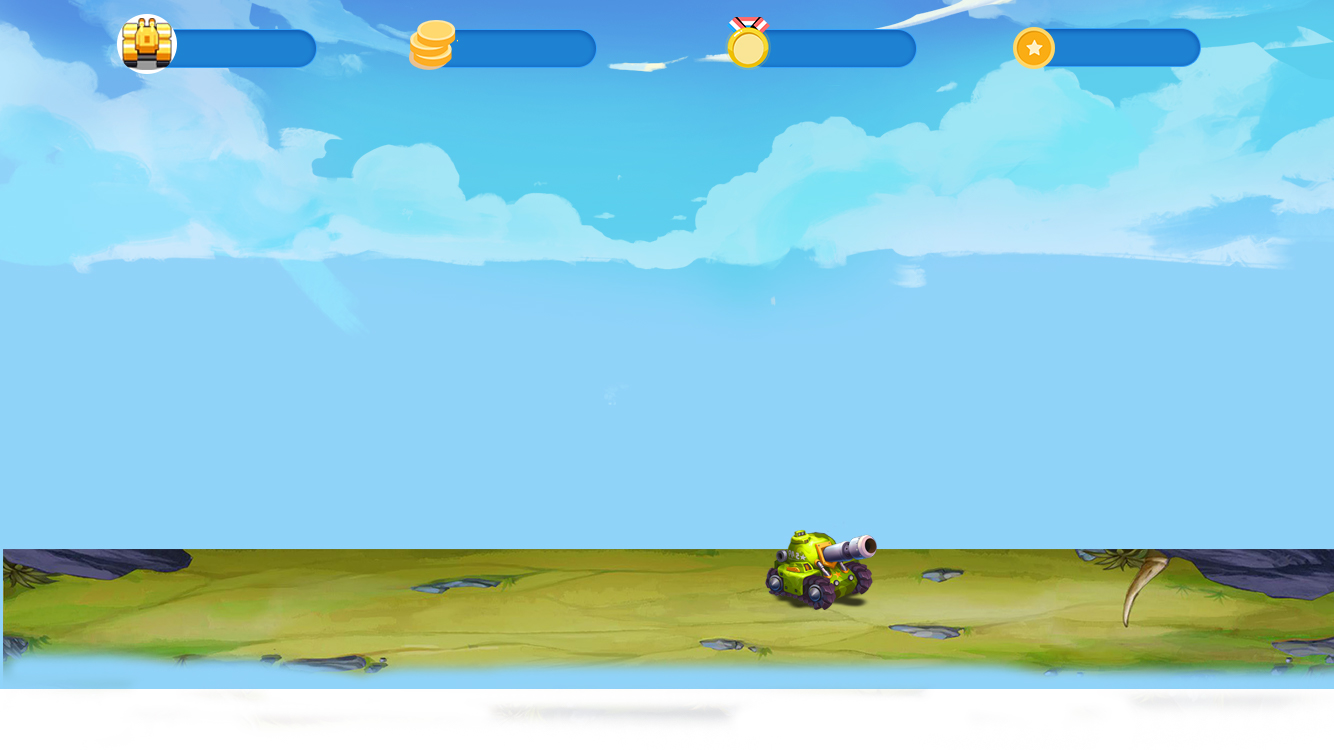
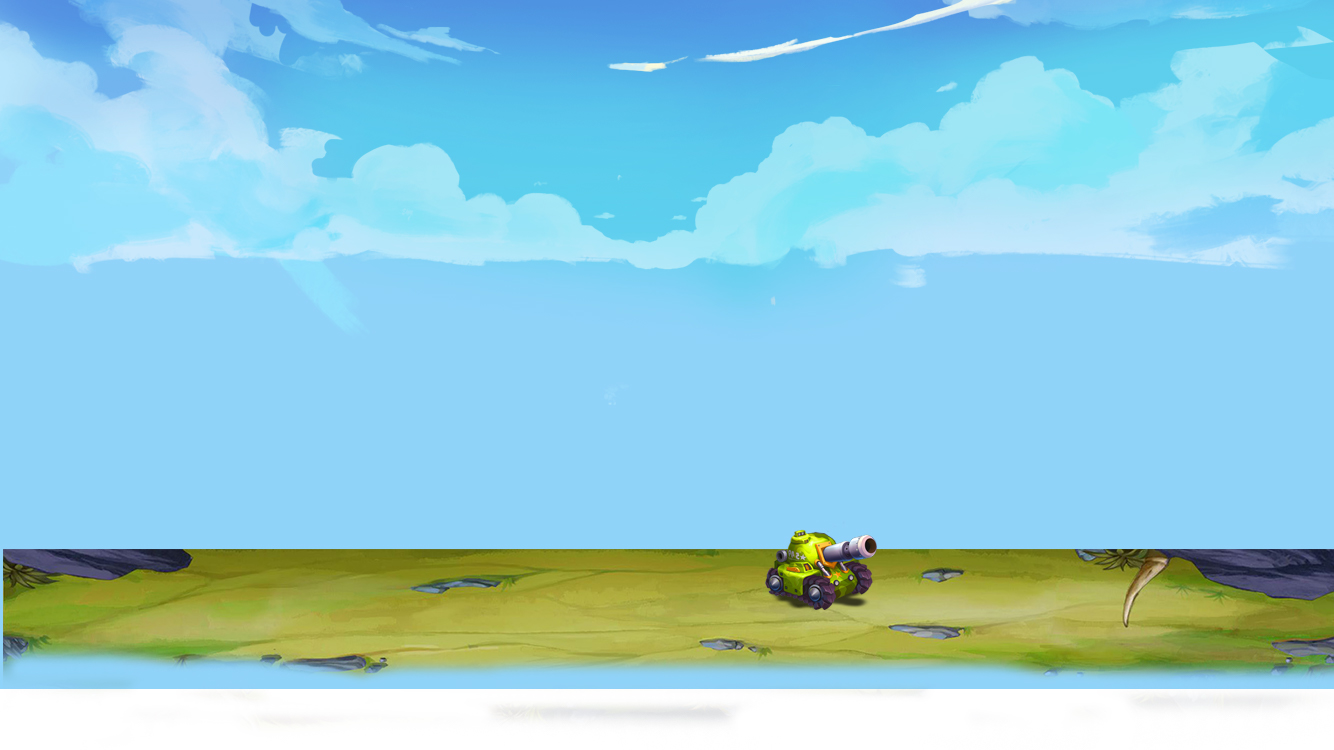
优化主界面显示（后端增加星星数查询）

diff --git a/websocket/src/main/resources/static/js/share/stage/menu.js b/websocket/src/main/resources/static/js/share/stage/menu.js
@@ -20,29 +20,100 @@ export default class Menu extends Stage {
         this.createBullet();
         this.createDoor();
         this.createFullScreenItem("menu_wall");
-
-        //信息
-        this.createItem({
-            draw: function (ctx) {
-                ctx.textAlign = 'center';
-                ctx.textBaseline = 'middle';
-                ctx.fillStyle = '#FFF';
-                const pos = {
-                    x: 344,
-                    y: 72
-                };
-                //姓名
-                ctx.displayText(Resource.getUser().userId, pos.x, pos.y, 26, true);
-                //金币
-                ctx.displayText(Resource.getUser().coin, pos.x + 400, pos.y, 26, true);
-                //排名
-                ctx.displayText(Resource.getUser().rank, pos.x + 844, pos.y, 26, true);
-                //积分
-                ctx.displayText(Resource.getUser().score, pos.x + 1266, pos.y, 26, true);
-            }
-        });
+        this.createTopInfo();
 
         this.initButton();
+    }
+
+    createTopInfo() {
+        const iconInfo = [
+            {
+                id: "menu_head",
+                scale: 1,
+                info: function () {
+                    return Resource.getUser().userId;
+                }
+            },
+            {
+                id: "star",
+                scale: 0.92,
+                offsetY: -5,
+                info: function () {
+                    return Resource.getUser().star;
+                }
+            },
+            {
+                id: "gold",
+                scale: 1.15,
+                info: function () {
+                    return Resource.getUser().coin;
+                }
+            }
+        ];
+        const info = {
+            rectW: 280,
+            rectH: 60,
+            interval: 60,
+            iconSize: 80
+        };
+
+        //generate start pos
+        info.startY = 15;
+        info.startX = Resource.formatWidth() / 2;
+        if (iconInfo.length % 2 === 0) {
+            info.startX += info.interval / 2;
+        } else {
+            info.startX -= info.rectW / 2;
+        }
+        info.startX -= (Math.floor(iconInfo.length / 2) * (info.rectW + info.interval));
+
+        this.createItem({
+            draw: function (ctx) {
+                ctx.displayTopLeft("top_mask", 0, 0, Resource.formatWidth());
+                ctx.displayCenter("menu_setting", 1827, 60, 100);
+
+                ctx.textAlign = 'center';
+                ctx.textBaseline = 'middle';
+                for (let i = 0; i < iconInfo.length; ++i) {
+                    const x = info.startX + (i * (info.rectW + info.interval));
+
+                    //rect
+                    ctx.fillStyle = '#000';
+                    ctx.globalAlpha = 0.3;
+                    ctx.displayFillRoundRect(
+                        x, info.startY,
+                        info.rectW, info.rectH,
+                        info.rectH / 2);
+                    ctx.globalAlpha = 1;
+
+                    //icon
+                    const icon = iconInfo[i];
+                    ctx.displayCenter(
+                        icon.id,
+                        x,
+                        info.startY + info.iconSize * .4 + (icon.offsetY ? icon.offsetY : 0),
+                        info.iconSize * icon.scale);
+
+                    //text
+                    ctx.fillStyle = '#FFF';
+                    ctx.displayGameText(
+                        icon.info(),
+                        x + info.rectW * .5,
+                        info.startY + info.rectH / 2,
+                        30);
+                }
+            },
+            controlUnit: new ControlUnit({
+                center: {
+                    x: 1827,
+                    y: 60
+                },
+                size: {
+                    w: 100,
+                    h: 100
+                }
+            })
+        });
     }
 
     initButton() {

diff --git a/websocket/src/main/resources/static/js/share/tool/resource.js b/websocket/src/main/resources/static/js/share/tool/resource.js
@@ -71,13 +71,12 @@ export default class Resource {
     }
 
     loadMenuResource() {
-        this.loadImage(
-            "menu_background",
-            "menu/background",
-            "jpg"
-        );
+        this.loadImage("menu_background", "menu/background", "jpg");
+        this.loadImage("top_mask", "menu/top_mask");
+        this.loadImage("menu_setting", "menu/setting");
         this.loadImage("menu_wall", "menu/wall");
         this.loadImage("menu_bullet", "menu/bullet");
+        this.loadImage("menu_head", "menu/head");
 
         //load door
         for (let i = 0; i < 23; ++i) {

diff --git a/websocket/src/main/resources/static/js/share/tool/user.js b/websocket/src/main/resources/static/js/share/tool/user.js
@@ -9,6 +9,7 @@ export default class User {
         this.userId = "";
         this.coin = 0;
         this.score = 0;
+        this.star = 0;
         this.originalUserId = null;
         this.deviceId = null;
         this.deviceName = null;
@@ -32,6 +33,7 @@ export default class User {
         this.userId = data.username;
         this.originalUserId = data.username;
         this.coin = data.coin;
+        this.star = data.star;
         this.redStarExpired = data.redStarExpired;
         this.ghostExpired = data.ghostExpired;
         this.clockExpired = data.clockExpired;

diff --git a/websocket/src/main/java/com/integration/socket/repository/dao/UserDao.java b/websocket/src/main/java/com/integration/socket/repository/dao/UserDao.java
@@ -6,6 +6,7 @@ import com.integration.socket.model.dto.UserDto;
 import com.integration.socket.repository.jooq.tables.records.RankBoardRecord;
 import com.integration.socket.repository.jooq.tables.records.StarRecord;
 import com.integration.socket.repository.jooq.tables.records.UserRecord;
+import org.jooq.impl.DSL;
 import org.springframework.beans.BeanUtils;
 import org.springframework.scheduling.annotation.Async;
 import org.springframework.stereotype.Repository;
@@ -47,6 +48,11 @@ public class UserDao extends BaseDao {
 
     public List<StarRecord> queryStarInfo(String userId) {
         return create.selectFrom(STAR).where(STAR.USER_ID.eq(userId)).fetch();
+    }
+
+    public int queryStarCount(String userId) {
+        return create.select(DSL.sum(STAR.STAR_)).from(STAR)
+               .where(STAR.USER_ID.eq(userId)).fetchOneInto(Integer.class);
     }
 
     public boolean saveStar(StarDto starDto) {

diff --git a/websocket/src/main/java/com/integration/socket/service/UserService.java b/websocket/src/main/java/com/integration/socket/service/UserService.java
@@ -50,6 +50,10 @@ public class UserService {
             userDto.setRank(record.getRank());
             userDto.setScore(record.getScore());
         }
+
+        //查询星数
+        userDto.setStar(userDao.queryStarCount(userId));
+
         return userDto;
     }
 

diff --git a/websocket/src/main/java/com/integration/socket/model/dto/UserDto.java b/websocket/src/main/java/com/integration/socket/model/dto/UserDto.java
@@ -21,6 +21,7 @@ public class UserDto {
     private String userDevice;
     private int coin;
     private int stage;
+    private int star;
     private int hardStage;
     private Integer rank;
     private Integer score;
